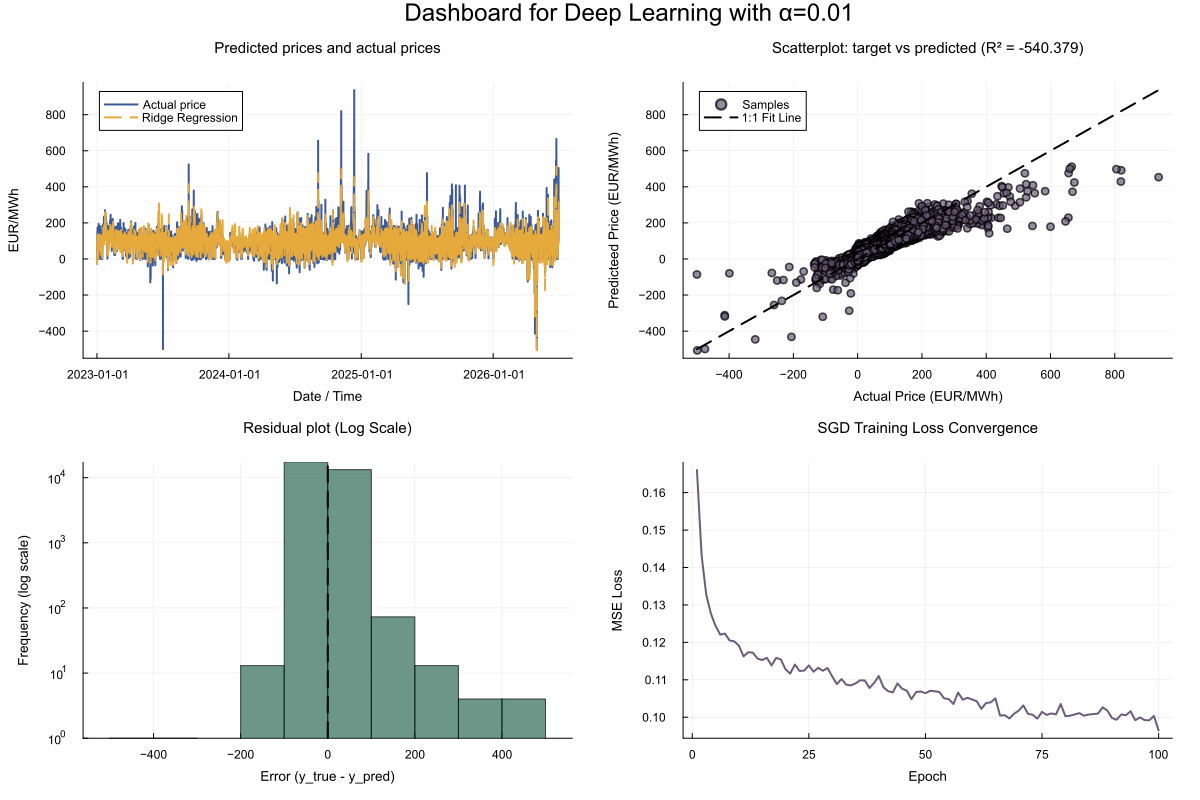
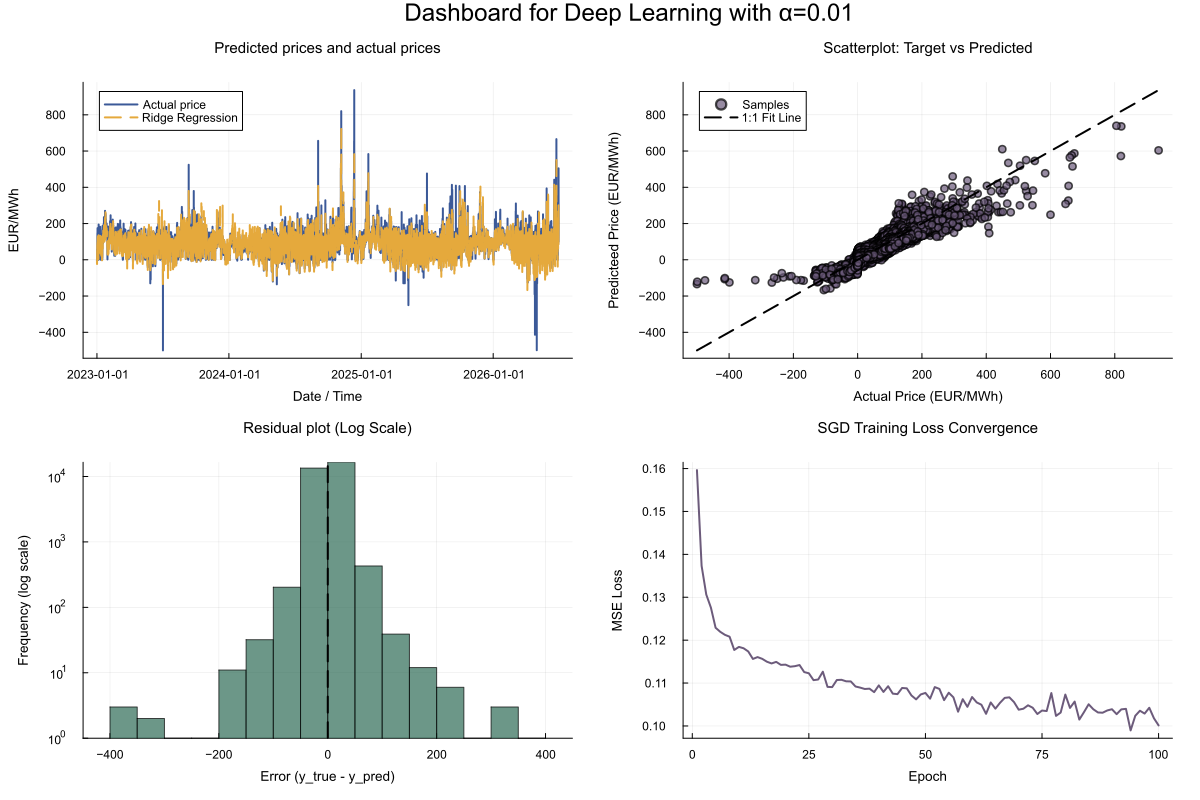
Restructured

diff --git a/README.md b/README.md
@@ -5,6 +5,6 @@ Predicting the day ahead price of energy using techniques from linear algebra an
 In the data directory, running the notebook *data.ipynb* pulls real power data. Note that you need an ENTSOE API key for this. Alternatively, run  *create_dummy_csv.py* to create a .csv file with fake data. Both ways format the data accordingly, for example converting hours into a periodic format that can be exploited by deep learning algorithms.
 
 ## 2) Analyze the data
-Once the .csv exists, there are two approaches to analyze the data and make preditions. In *ridge_regression_prediction.jl*, a classical ridge regression is used. In *deep_leanring_prediction.jl*, we use a simple neural network with RELU and Stochastic Gradient Descent. Both scripts build dashboards that can be used to view some of the model's properties.
-![Ridge Regression Plots](plots/ridge_regression_plots_lambda_50.png)
-![Deep Leanring Plots](plots/deep_learning_plots_epochs_1000.png)
+Once the .csv exists, there are two approaches to analyze the data and make predictions: A classical ridge regression and a simple neural network with RELU and Stochastic Gradient Descent. The file *energy_price_predictions.jl* runs both methods and builds dashboards that can be used to view some of the model's properties.
+![Ridge Regression Plots](plots/ridge_regression_plots_lambda_5.png)
+![Deep Learning Plots](plots/deep_learning_plots_epochs_100.png)
